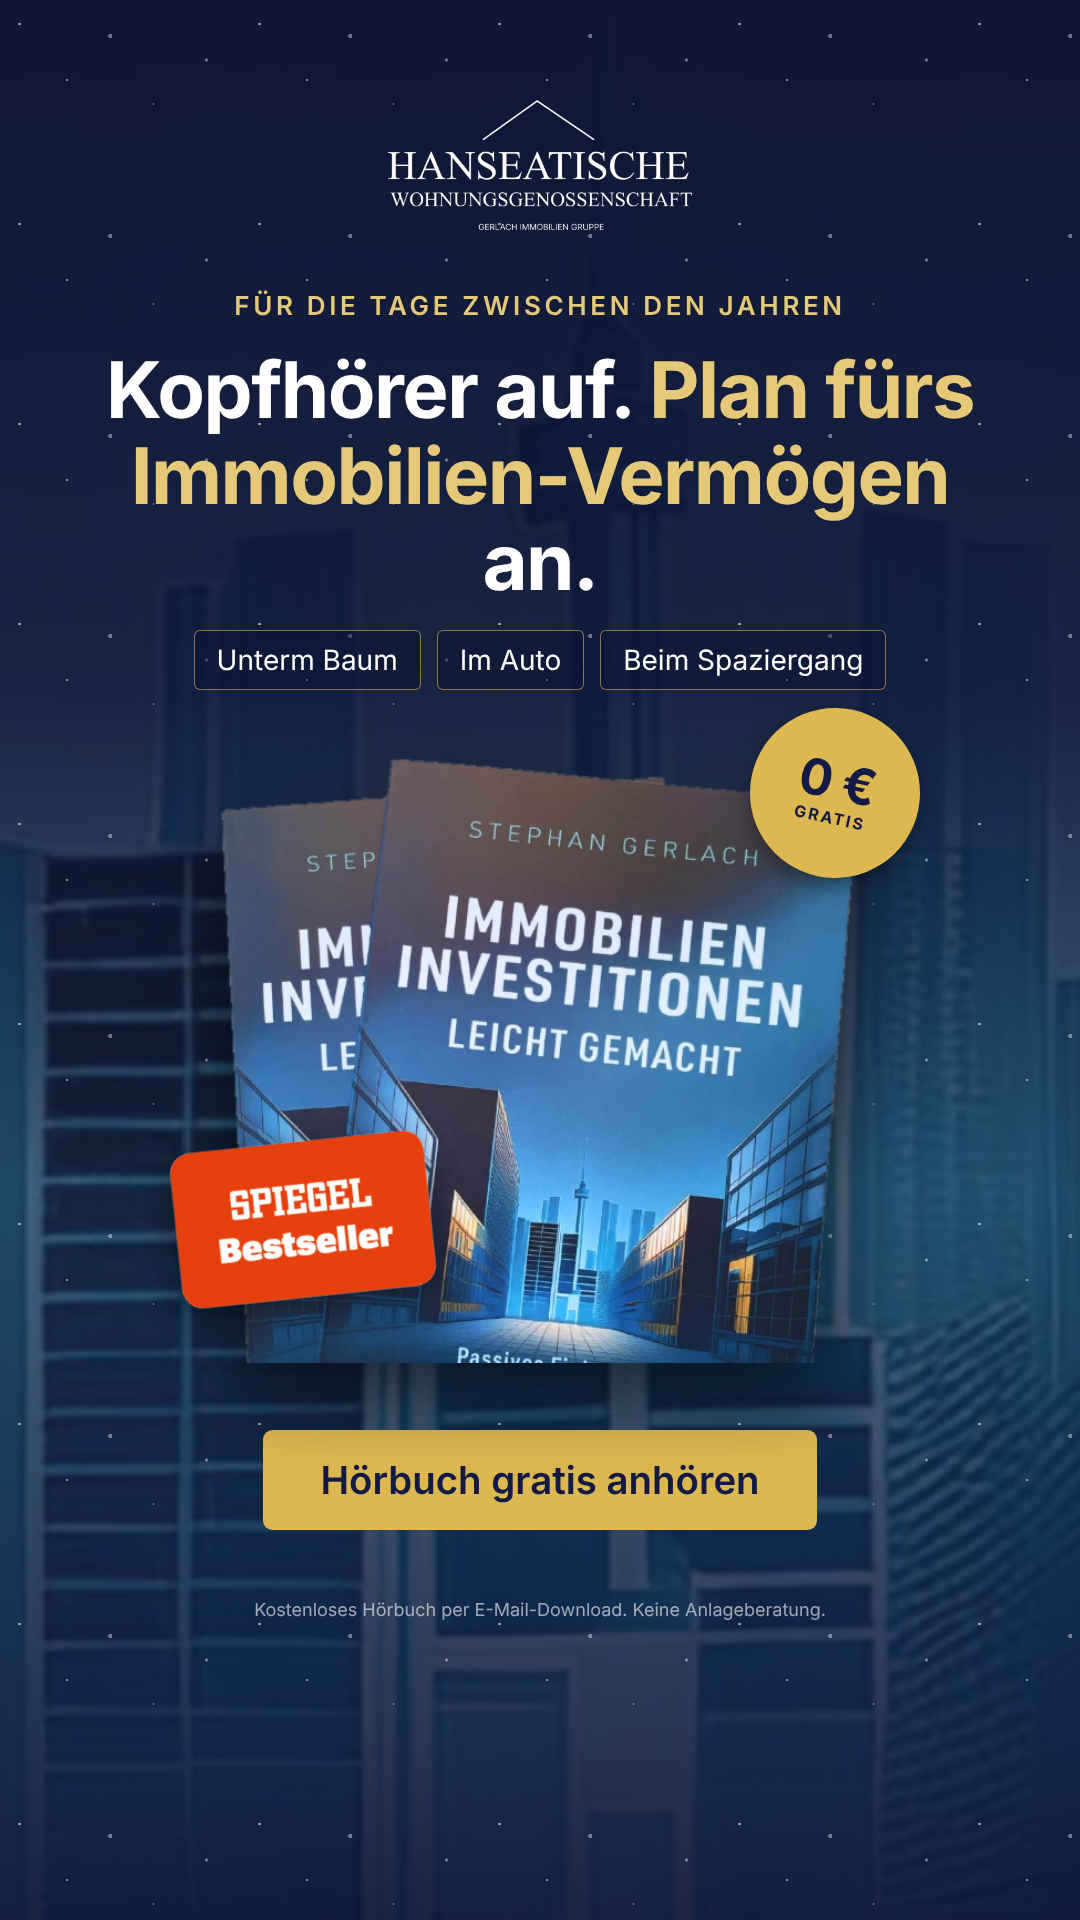
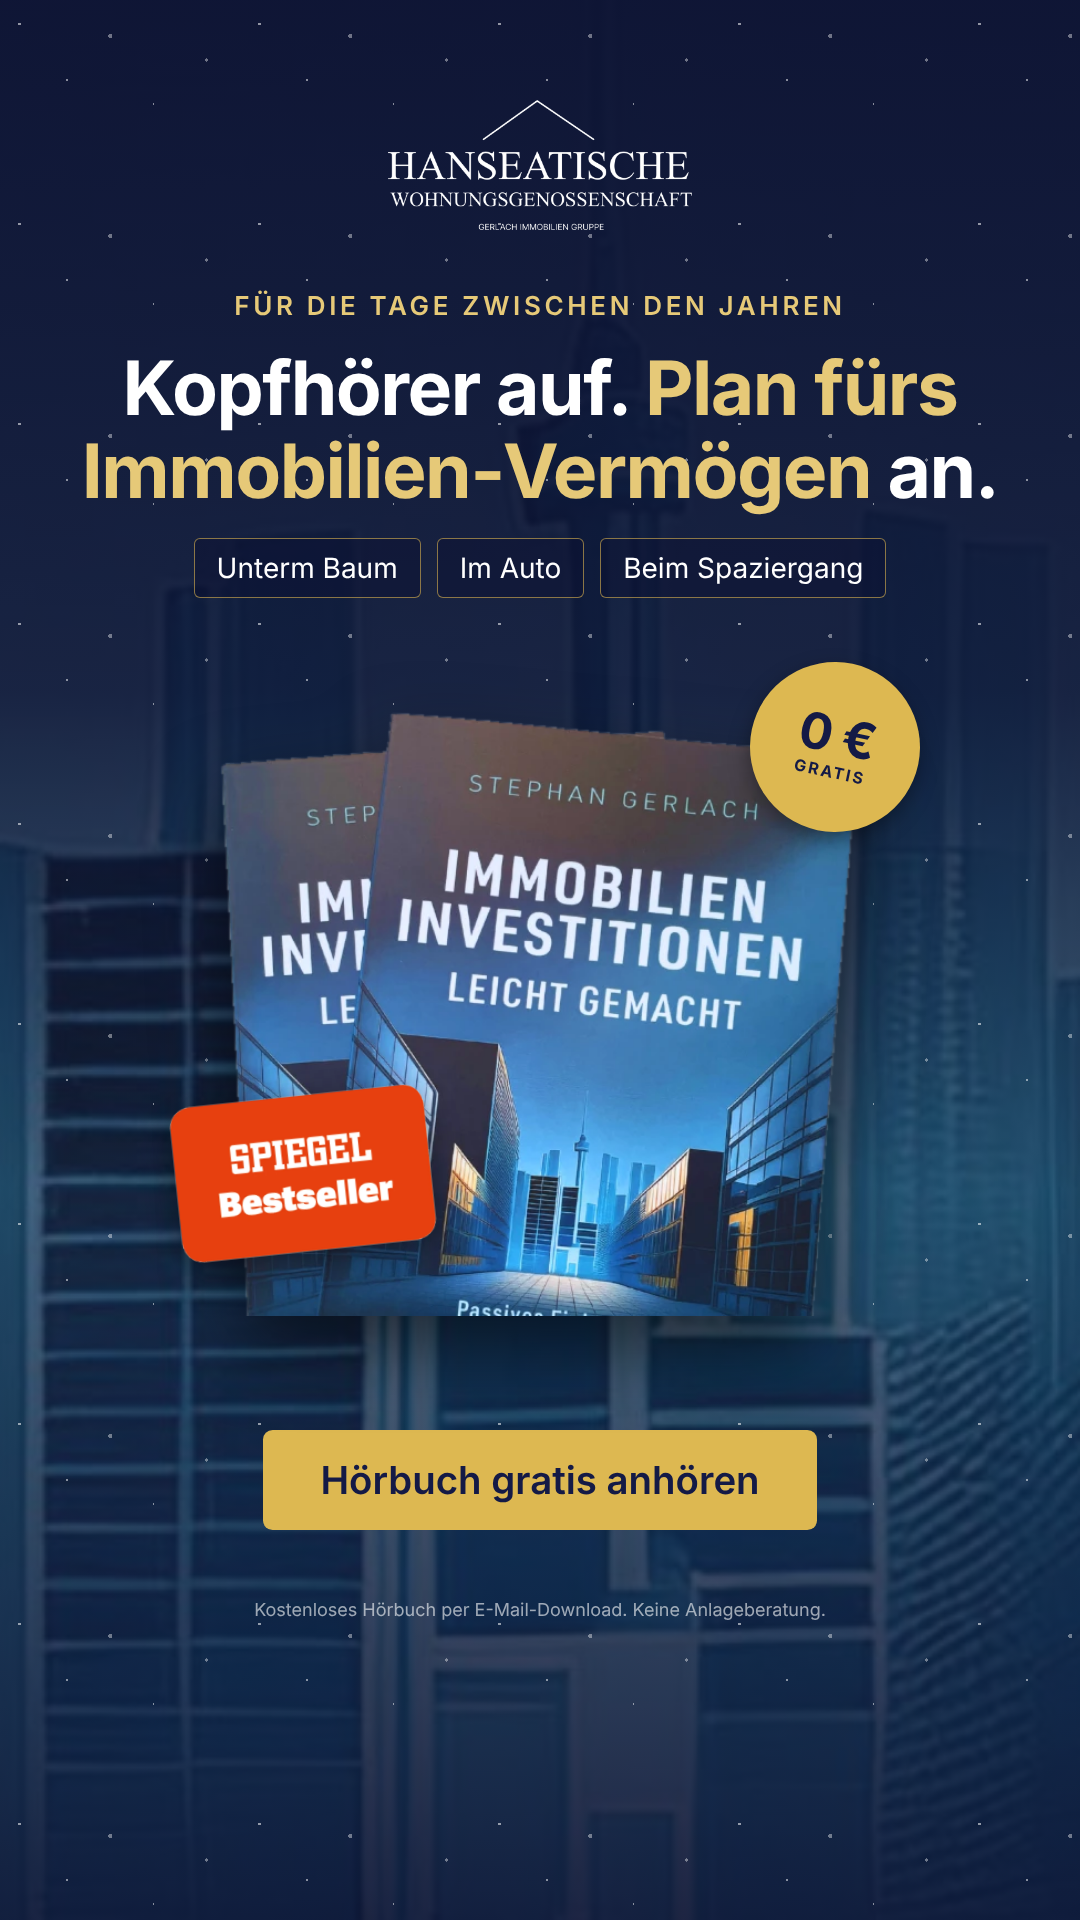
Hörbuch ad C: no lone "an." on the last headline line
A non-breaking space keeps "an." with the word before it; in the Story
format the compound word stays together and the headline sits on two lines.

Claude-Session: https://claude.ai/code/session_01MwbuZMrrPYKRN76czVZSnJ

Changed region(s): [[0.1528, 0.3438, 0.8556, 0.75], [0.0611, 0.1875, 0.9167, 0.3125]]

diff --git a/sites/hwg-landing/hoerbuch-weihnachten/ads/src/preview/c-zwischen-den-jahren-1080x1920.html b/sites/hwg-landing/hoerbuch-weihnachten/ads/src/preview/c-zwischen-den-jahren-1080x1920.html
@@ -26,7 +26,7 @@ body{margin:0}
   <div style="position: absolute; left: 76px; right: 76px; top: 290px; bottom: 390px; display: flex; flex-direction: column; align-items: center; justify-content: space-between; text-align: center;">
     <div style="display: flex; flex-direction: column; align-items: center; gap: 26px;">
       <span style="font-size: 26px; font-weight: 600; letter-spacing: 0.14em; text-transform: uppercase; color: var(--gold-400);">Für die Tage zwischen den Jahren</span>
-      <h1 style="margin: 0; font-family: var(--font-ui); font-weight: 700; font-size: 78px; line-height: 1.1; letter-spacing: -0.02em;">Kopfhörer auf. <em style="font-style: normal; color: var(--gold-400);">Plan fürs Immobilien-Vermögen</em> an.</h1>
+      <h1 style="margin: 0; font-family: var(--font-ui); font-weight: 700; font-size: 75px; line-height: 1.1; letter-spacing: -0.02em;">Kopfhörer auf. <em style="font-style: normal; color: var(--gold-400);">Plan fürs Immobilien‑Vermögen</em>&nbsp;an.</h1>
       <div style="display: flex; flex-wrap: wrap; gap: 16px; justify-content: center;">
         <span style="padding: 12px 22px; border: 1px solid rgba(221,184,81,0.6); border-radius: 6px; font-size: 28px; background: rgba(12,16,48,0.45);">Unterm Baum</span>
         <span style="padding: 12px 22px; border: 1px solid rgba(221,184,81,0.6); border-radius: 6px; font-size: 28px; background: rgba(12,16,48,0.45);">Im Auto</span>

diff --git a/sites/hwg-landing/hoerbuch-weihnachten/ads/src/preview/c-zwischen-den-jahren-1080x1350.html b/sites/hwg-landing/hoerbuch-weihnachten/ads/src/preview/c-zwischen-den-jahren-1080x1350.html
@@ -27,7 +27,7 @@ body{margin:0}
   <div style="position: absolute; left: 70px; right: 70px; top: 220px; bottom: 90px; display: flex; flex-direction: column; align-items: center; justify-content: space-between; text-align: center;">
     <div style="display: flex; flex-direction: column; align-items: center; gap: 20px;">
       <span style="font-size: 21px; font-weight: 600; letter-spacing: 0.14em; text-transform: uppercase; color: var(--gold-400);">Für die Tage zwischen den Jahren</span>
-      <h1 style="margin: 0; font-family: var(--font-ui); font-weight: 700; font-size: 62px; line-height: 1.1; letter-spacing: -0.02em;">Kopfhörer auf. <em style="font-style: normal; color: var(--gold-400);">Plan fürs Immobilien-Vermögen</em> an.</h1>
+      <h1 style="margin: 0; font-family: var(--font-ui); font-weight: 700; font-size: 62px; line-height: 1.1; letter-spacing: -0.02em;">Kopfhörer auf. <em style="font-style: normal; color: var(--gold-400);">Plan fürs Immobilien-Vermögen</em>&nbsp;an.</h1>
       <div style="display: flex; flex-wrap: wrap; gap: 14px; justify-content: center;">
         <span style="padding: 10px 18px; border: 1px solid rgba(221,184,81,0.6); border-radius: 6px; font-size: 22px; background: rgba(12,16,48,0.45);">Unterm Baum</span>
         <span style="padding: 10px 18px; border: 1px solid rgba(221,184,81,0.6); border-radius: 6px; font-size: 22px; background: rgba(12,16,48,0.45);">Im Auto</span>

diff --git a/sites/hwg-landing/hoerbuch-weihnachten/ads/src/preview/c-zwischen-den-jahren-1080x1080.html b/sites/hwg-landing/hoerbuch-weihnachten/ads/src/preview/c-zwischen-den-jahren-1080x1080.html
@@ -26,7 +26,7 @@ body{margin:0}
   </div>
   <div style="position: absolute; left: 70px; top: 310px; width: 520px; display: flex; flex-direction: column; gap: 24px;">
     <span style="font-size: 20px; font-weight: 600; letter-spacing: 0.14em; text-transform: uppercase; color: var(--gold-400);">Für die Tage zwischen den Jahren</span>
-    <h1 style="margin: 0; font-family: var(--font-ui); font-weight: 700; font-size: 51px; line-height: 1.1; letter-spacing: -0.02em;">Kopfhörer auf. <em style="font-style: normal; color: var(--gold-400);">Plan fürs Immobilien-Vermögen</em> an.</h1>
+    <h1 style="margin: 0; font-family: var(--font-ui); font-weight: 700; font-size: 51px; line-height: 1.1; letter-spacing: -0.02em;">Kopfhörer auf. <em style="font-style: normal; color: var(--gold-400);">Plan fürs Immobilien-Vermögen</em>&nbsp;an.</h1>
     <div style="display: flex; flex-wrap: wrap; gap: 12px;">
         <span style="padding: 9px 16px; border: 1px solid rgba(221,184,81,0.6); border-radius: 6px; font-size: 20px; background: rgba(12,16,48,0.45);">Unterm Baum</span>
         <span style="padding: 9px 16px; border: 1px solid rgba(221,184,81,0.6); border-radius: 6px; font-size: 20px; background: rgba(12,16,48,0.45);">Im Auto</span>

diff --git a/sites/hwg-landing/hoerbuch-weihnachten/ads/src/preview/c-zwischen-den-jahren-1200x674.html b/sites/hwg-landing/hoerbuch-weihnachten/ads/src/preview/c-zwischen-den-jahren-1200x674.html
@@ -26,7 +26,7 @@ body{margin:0}
   </div>
   <div style="position: absolute; left: 56px; top: 150px; width: 600px; display: flex; flex-direction: column; gap: 16px;">
     <span style="font-size: 15px; font-weight: 600; letter-spacing: 0.14em; text-transform: uppercase; color: var(--gold-400);">Für die Tage zwischen den Jahren</span>
-    <h1 style="margin: 0; font-family: var(--font-ui); font-weight: 700; font-size: 39px; line-height: 1.1; letter-spacing: -0.02em;">Kopfhörer auf. <em style="font-style: normal; color: var(--gold-400);">Plan fürs Immobilien-Vermögen</em> an.</h1>
+    <h1 style="margin: 0; font-family: var(--font-ui); font-weight: 700; font-size: 39px; line-height: 1.1; letter-spacing: -0.02em;">Kopfhörer auf. <em style="font-style: normal; color: var(--gold-400);">Plan fürs Immobilien-Vermögen</em>&nbsp;an.</h1>
     <div style="display: flex; flex-wrap: wrap; gap: 10px;">
         <span style="padding: 7px 12px; border: 1px solid rgba(221,184,81,0.6); border-radius: 6px; font-size: 15px; background: rgba(12,16,48,0.45);">Unterm Baum</span>
         <span style="padding: 7px 12px; border: 1px solid rgba(221,184,81,0.6); border-radius: 6px; font-size: 15px; background: rgba(12,16,48,0.45);">Im Auto</span>

diff --git a/sites/hwg-landing/hoerbuch-weihnachten/ads/src/creatives.py b/sites/hwg-landing/hoerbuch-weihnachten/ads/src/creatives.py
@@ -136,7 +136,7 @@ COPY = {
               sub_short='„Immobilien-Investitionen leicht gemacht“ von Stephan Gerlach.',
               cta='Hörbuch gratis sichern', objpos='50% 50%'),
     'c': dict(eyebrow='Für die Tage zwischen den Jahren', pill='Kostenlos',
-              h1=f'Kopfhörer auf. <em style="{EM}">Plan fürs Immobilien-Vermögen</em> an.',
+              h1=f'Kopfhörer auf. <em style="{EM}">Plan fürs Immobilien-Vermögen</em>&nbsp;an.',
               cta='Hörbuch gratis anhören', objpos='50% 50%'),
     'b': dict(eyebrow='SPIEGEL-Bestseller jetzt als Hörbuch',
               h1=f'Mein Geschenk für Ihre <em style="{EM}">Weihnachtstage.</em>',
@@ -194,13 +194,16 @@ def ac_portrait(c, k):
 def ac_story(c, k):
     t = COPY[k]
     mid = sub(t['sub_short'], 34) if k == 'a' else chips(28, '12px 22px', 16, center=True)
+    # C: keep "Immobilien-Vermögen an." together on the last line (non-breaking hyphen)
+    head = t['h1'].replace('Immobilien-Vermögen', 'Immobilien\u2011Vermögen') if k == 'c' else t['h1']
+    head_size = 96 if k == 'c' else 100
     return (bg_layers(c, t['objpos'], OV_V, True) + f'''  <div style="position: absolute; left: 0; right: 0; top: 100px; display: flex; justify-content: center;">
     {logo(c, 130)}
   </div>
   <div style="position: absolute; left: 76px; right: 76px; top: 290px; bottom: 390px; display: flex; flex-direction: column; align-items: center; justify-content: space-between; text-align: center;">
     <div style="display: flex; flex-direction: column; align-items: center; gap: 26px;">
       {eyebrow(t['eyebrow'], 26)}
-      {h1(t['h1'], 100)}
+      {h1(head, head_size)}
       {mid}
     </div>
     <div style="position: relative;">
